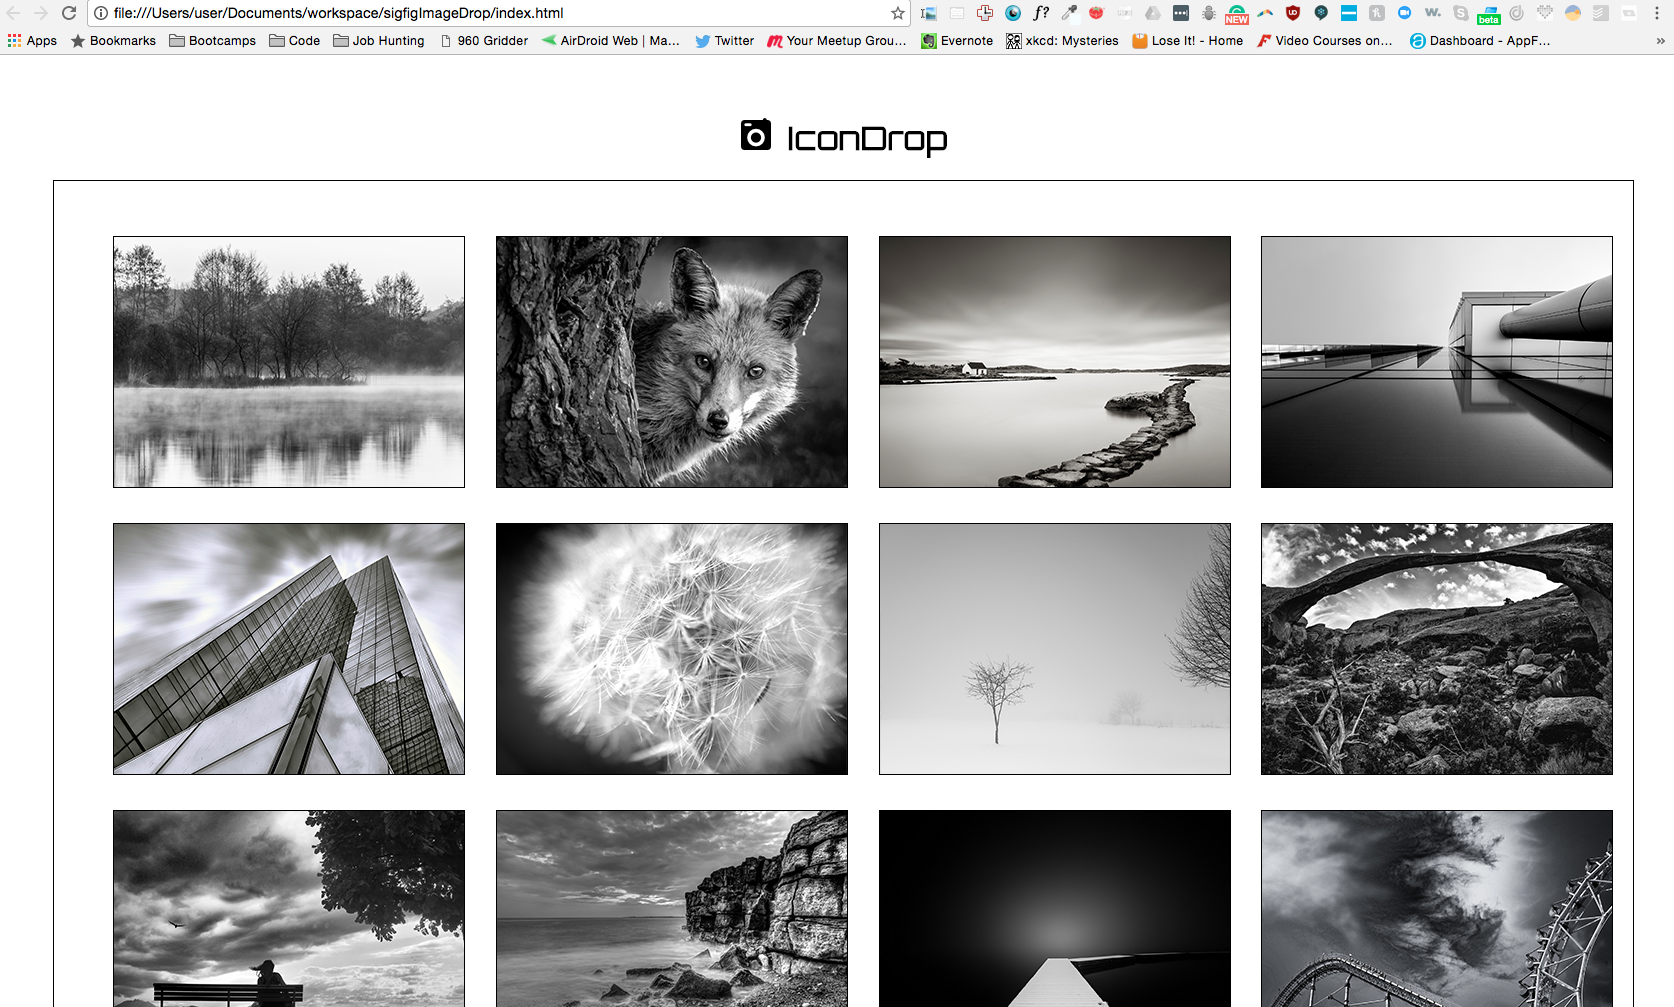
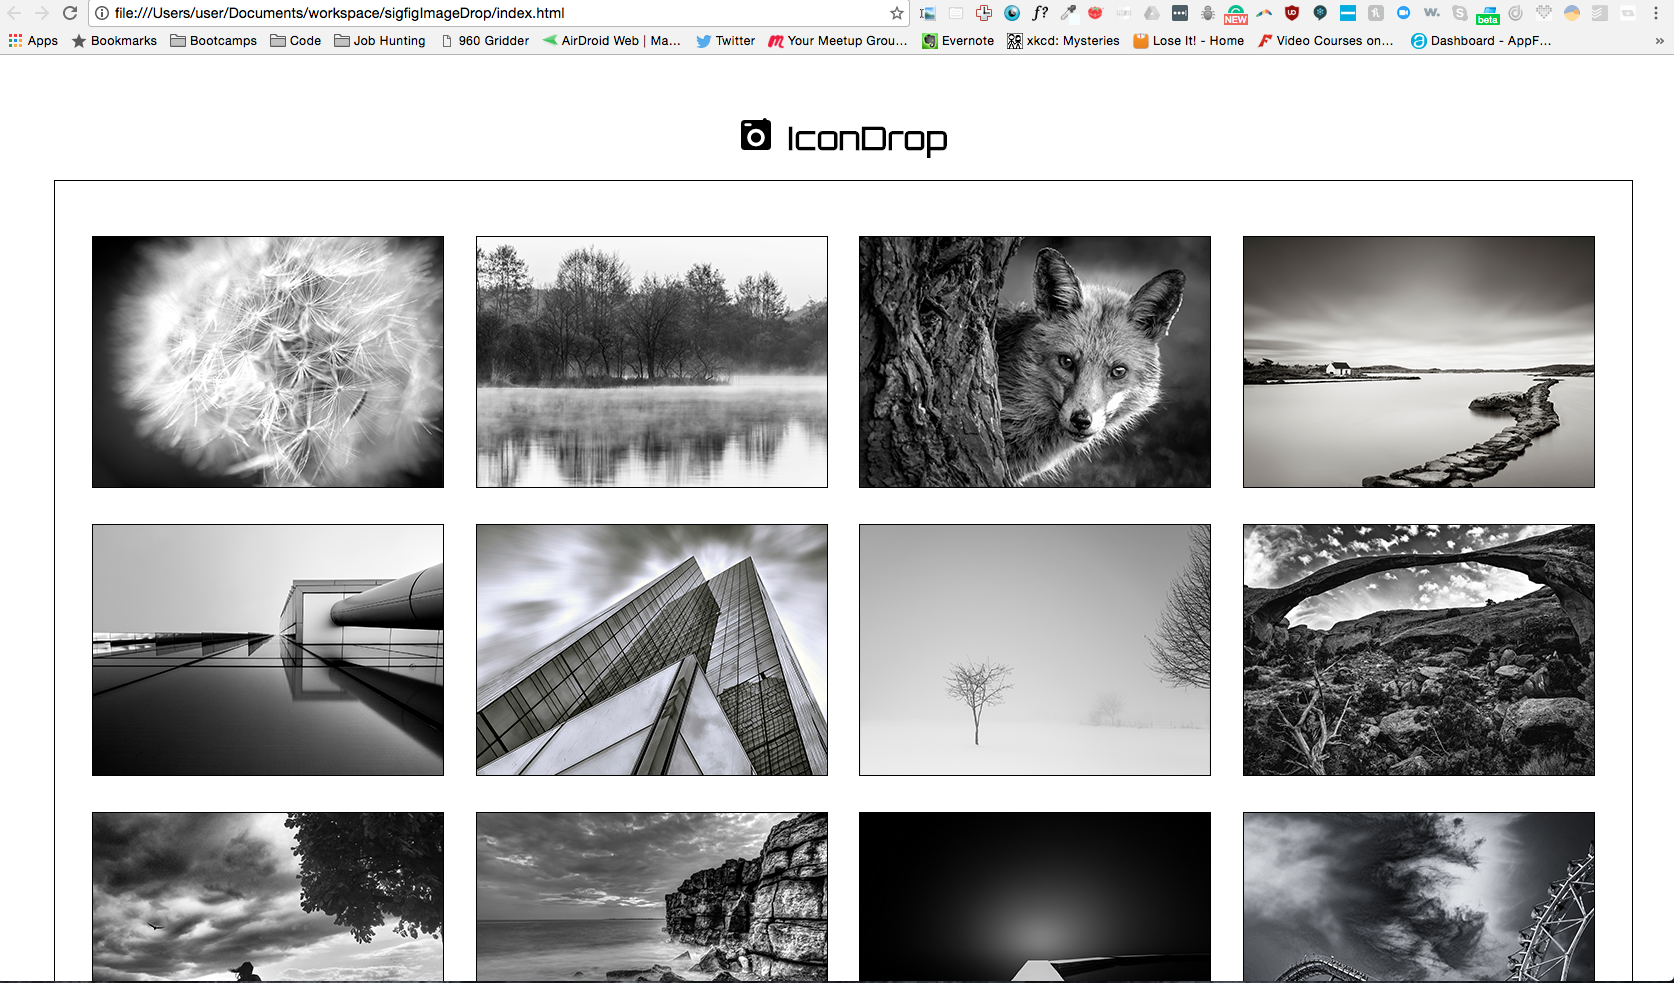
Fix left padding of gallery div & add new screenshot

diff --git a/css/styles.css b/css/styles.css
@@ -10,10 +10,16 @@
     height: 80%;
     border: 1px solid #000;
     padding: 1.5% 0; }
-    #container #pic-table #pic-list .pic {
-      display: inline-block;
-      margin: 1%; }
-      #container #pic-table #pic-list .pic img {
-        border: 1px solid #000; }
+    #container #pic-table #pic-list {
+      padding-left: 0px; }
+      #container #pic-table #pic-list .pic {
+        display: inline-block;
+        margin: 1%; }
+        #container #pic-table #pic-list .pic img {
+          border: 1px solid #000; }
+        #container #pic-table #pic-list .pic .dragStartClass {
+          opacity: 0.4;
+          width: 90%;
+          height: 90%; }
 
 /*# sourceMappingURL=styles.css.map */

diff --git a/css/styles.scss b/css/styles.scss
@@ -15,11 +15,17 @@
     border: 1px solid #000;
     padding: 1.5% 0;
     #pic-list {
+      padding-left: 0px;
       .pic {
         display: inline-block;
         margin: 1%;
         img {
           border: 1px solid #000;
+        }
+        .dragStartClass {
+          opacity: 0.4;
+          width: 90%;
+          height: 90%;
         }
       }
     }
